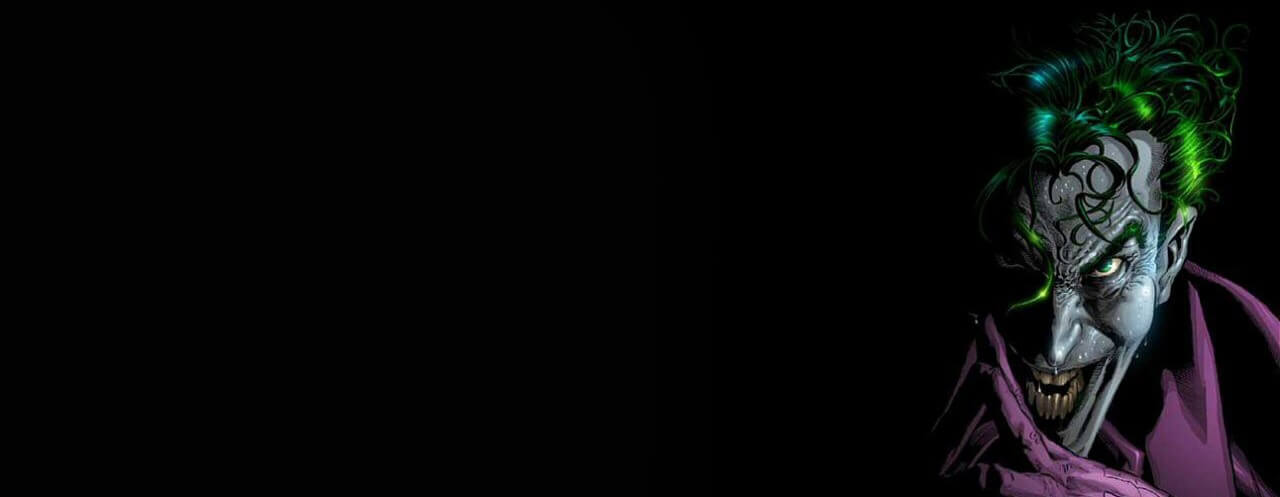
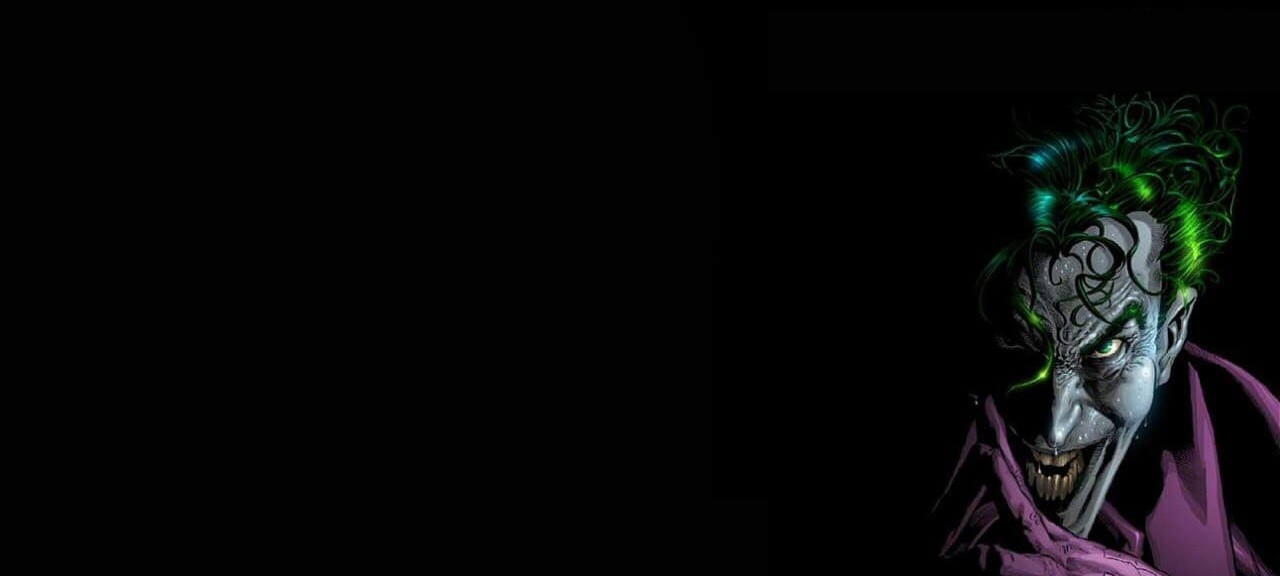
letra e tamanhos segunda parte

Changed region(s): [[0.7188, 0.0302, 1.0, 1.0], [0.9375, 0.8753, 1.0, 0.996]]

diff --git a/css/style.css b/css/style.css
@@ -83,7 +83,8 @@ h3.fontinicial {
 	float: right;
 	width: 100%;
 	height: 100%;
-	padding-bottom: 6%;
+	padding-top: 10%;
+	padding-bottom: 10%;
 }
 
 .containerdois{
@@ -91,35 +92,38 @@ h3.fontinicial {
 	text-align: center;
 	float:left;
 	background-color: rgba(68, 45, 65, 0.5);
-	color:black;
+	color:white;
 	border-radius: 2%;
 	margin: 0 auto;
 	margin-left: 5%;
-	margin-top: 8%;
+	margin-top: 4%;
 	padding: 3%;
 	font-size: 150%;
 	font-family: 'Risque', cursive;
 }
 
-/*.dividetres{
+.meio{
 	text-align: center;
-	margin-top: 15%;
+	margin-top: 25%;
 	padding-top: 10%;
 
 }
-
-.tituloum{
-	font-family: 'Pacifico', cursive;
+.galeria{
+	font-family: 'Risque', cursive;
 	font-size: 300%;
+	padding: 4%;
 }
 .containerquatro{
+	width: 80%;
+	margin: 0 auto;
 	margin-left: 10%;
 	margin-bottom: 3%;
-}*/
+	padding-left: 10%;
+}
 img.foto{
-	max-width: 90%;
-	max-height: 1%;
-	
+	width: 150px;
+	height: 150px;
+	margin: 0.3%;
 
 }
 img.foto:hover{
@@ -128,11 +132,11 @@ img.foto:hover{
 	-o-transform: scale(1.5);
 	-webkit-transition: 1s all ease;  /*É para pega no Chrome e Safira */
 	-moz-transition: 1s all ease;  /*Firefox */
-	-o-transition: 1s all ease; /* Opera 
+	-o-transition: 1s all ease; /* Opera*/ 
 }
 
-/* Let's get this party started 
-/*::-webkit-scrollbar {
+ Let's get this party started 
+::-webkit-scrollbar {
 	width: 12px;
 }
 ::-webkit-scrollbar-track {
@@ -142,7 +146,7 @@ img.foto:hover{
 ::-webkit-scrollbar-thumb {
 	background: #444;
 	border-radius: 0;
-}*/
+}
 .topnav {
   overflow: hidden;
   background-color: #000000;
@@ -203,6 +207,9 @@ img.foto:hover{
 		margin-top: 7%;
 		padding: 2%;
 		font-size: 120%;
+	}
+	img.logo{
+		float: none;
 	}
 }
 @media (max-width: 735px) {
@@ -265,6 +272,9 @@ img.foto:hover{
 	margin-top: 2%;
 	padding: 1%;
 	font-size: 70%;
+	}
+	.partetre{
+		display: none;
 	}
 
 /*@media (max-width: 414px) {
@@ -333,7 +343,7 @@ img.foto:hover{
 		max-height: 6%;
 
 	}
-}*/
+}
 
 /*@media screen and (device-width: 320px) and (device-height: 568px) and (-webkit-device-pixel-ratio: 2){
 	.containerdois{
@@ -396,4 +406,4 @@ img.foto:hover{
 	.topnav a {
 		font-size: 150%;
 	}
-}*/
+}

diff --git a/index.html b/index.html
@@ -15,6 +15,7 @@
 			<header>
 				<div class="topnav" id="myTopnav">
 					<img src="img/logopagina.jpg" class="logo">
+					<a href="#sobre">Sobre o site</a>
 					<a href="#news">Mina de spoiler</a>
 					<a href="#news">Resumão</a>
 					<a href="#contact">Bate Papo</a>
@@ -28,25 +29,33 @@
 					<h3 class="fontinicial"> SO </h3>
 					<h3 class="fontinicial">  SERIOUS? </h3>
 					<h2 class="fontinicial"> O melhor das séries e filmes!</h2>
-					<a href="#banner" class="conhecer">Clique e nos conheça!</a>
+
 
 				</div>
+				<a name="sobre"></a>
 			</div>
+			
 			<div class=" dividedois">
+
 				<div class="row">
+					 
 					<div class=" containerdois">
+
 						<span class="sobre">Somos uma comunidade independente, que une apaixonados por series e filmes para compartilhar experiências, dicas e indicações. Encontrar álguem que já assitiu a mesma série que você e poder debater alucinadamente suas teorias e impressões está, com certeza , no rancking das melhores sensações do mundo. Se você concorda com isso, está no lugar certo! Bem-vindo ao "Why so serious?".</span>
 						<p class="fraseseries">"Quem somos está em constante evolução". Criminal Minds</p>
 					</div>
 				</div>
-				<a name="banner"></a>
+				
 			</div>
-			<div class="dividetres">
-			 <h1 class="tituloum">Galeria de séries</h1>
+			<div class="meio">
+				<div class="galeria"> 
+					<h1>GALERIA DE SÉRIES</h1>
+					</div>
 			</div>
-			<div class="dividequatro">
+			<div class="partetres">
 				<div class="containerquatro">
-					<img src="img/blindspot.jpg" class="foto" alt="Blindspot">
+					
+					<img src="img/blindspot.jpg" class="foto " alt="Blindspot">
 					<img src="img/TheWalkingDead.jpg" class="foto" alt="TheWalkingDead">
 					<img src="img/StrangerThings.jpg" class="foto" alt="StrangerThings">
 					<img src="img/arrow.jpg" class="foto" alt="Arrow">
